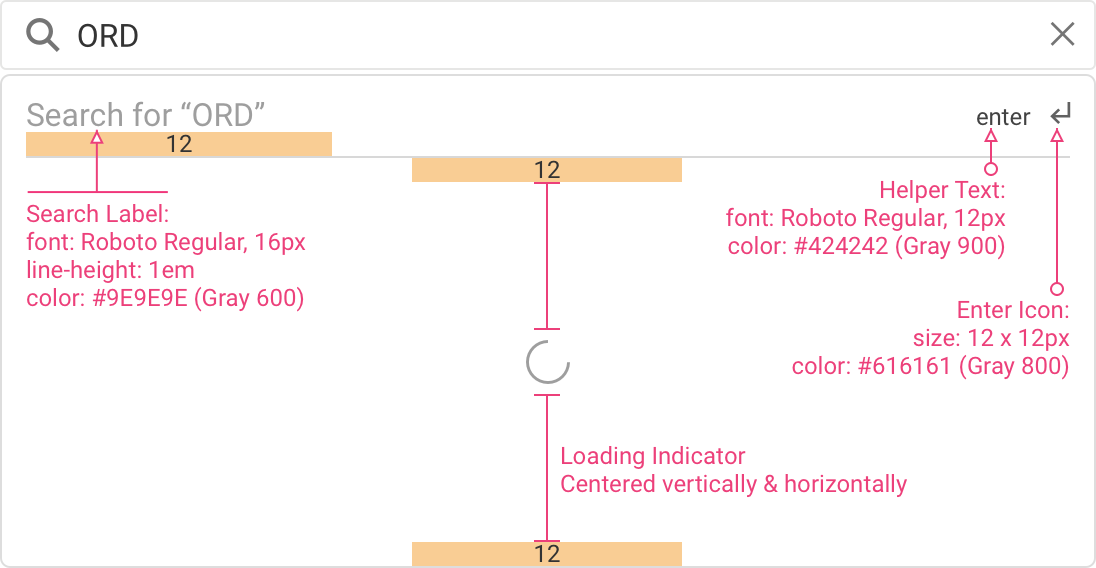
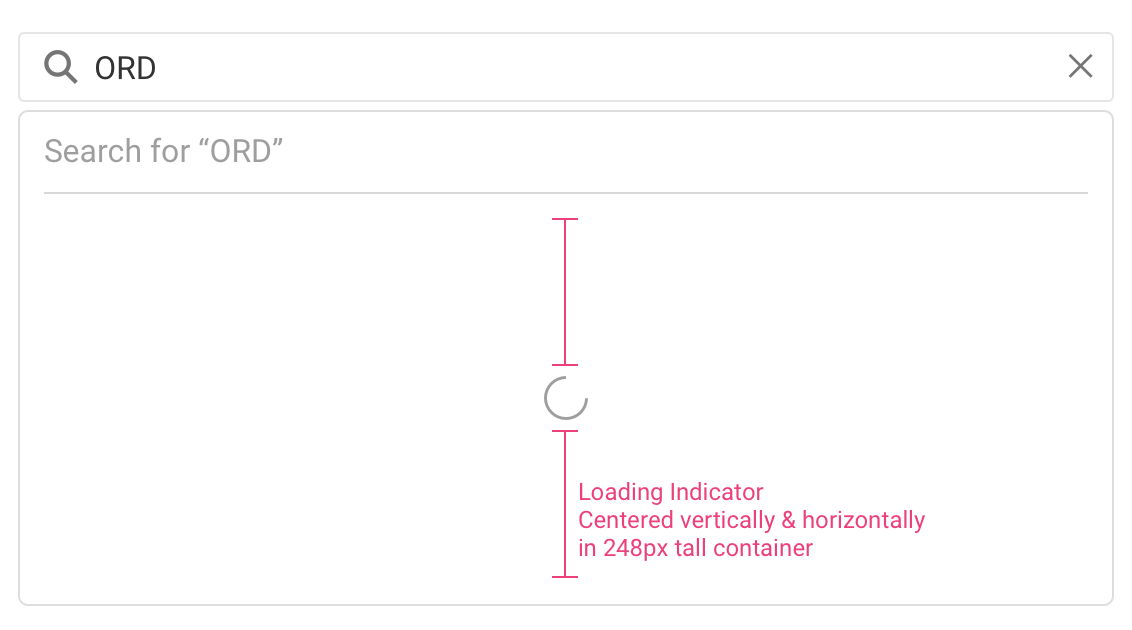
docs(assisted-search): update assisted search docs
Updated images and content for assisted search documentation

Changed region(s): [[0.0, 0.0, 1.0, 1.0], [0.4964, 0.7482, 0.8376, 0.8979], [0.4653, 0.5986, 0.5274, 0.6884]]

diff --git a/_component_design/assisted-search.md b/_component_design/assisted-search.md
@@ -8,7 +8,7 @@ usage: >
 preview-image: preview-images/assisted-search.svg
 resource: true
 status: stable
-last-modified: 2017-11-07
+last-modified: 2018-02-06
 ---
 
 {% include toc.html %}
@@ -21,16 +21,16 @@ last-modified: 2017-11-07
 
 {% column left:"hxCol-4 hxCol-xs-12 hxCol-sm-12 hxCol-md-4 hxCol-lg-4" %}
 
-### Assisted search drop-down
+### Pre-entry state
 
-When the user clicks the search box, show them a list of keywords that they can use to filter their search.
 
+Assistive search is a content container and a set of behaviors given to a search box. The assistive search container does not populate under text is entered, and is indistinguishable from a default search box state.
 
 {% endcolumn %}
 
 {% column right:"hxCol-8 hxCol-xs-12 hxCol-sm-12 hxCol-md-8 hxCol-lg-8" %}
-{% figure [caption:"Meet the assisted search drop-down menu"] [class:"image bg-light border"] %}
-![]({{site.url}}/assets/images/components/search-and-filters/search-assisted/assisted-search-drop-down-menu.png){: width="548px"}
+{% figure [caption:"Meet the assisted search menu"] [class:"image bg-light border"] %}
+![]({{site.url}}/assets/images/components/search-and-filters/search-assisted/assisted-search-pre-entry.png){:width="566px"}
 {% endfigure %}
 {% endcolumn %}
 
@@ -44,24 +44,19 @@ When the user clicks the search box, show them a list of keywords that they can 
 
 {% column left:"hxCol-4 hxCol-xs-12 hxCol-sm-12 hxCol-md-4 hxCol-lg-4" %}
 
-### Layout specifications
+### Active state
 
-Separate groups of keywords using a horizontal divider.
-
-Append the keyword with colon to the search input when the user clicks on a keyword in the menu.
-
+When the search box is clicked and the cursor is active, a designer may choose to prompt the user with recent or suggested searches depending on their context. Recent Searches is just one example of content that can populate an Assistive Search Box. 
 
 {% endcolumn %}
 
 {% column right:"hxCol-8 hxCol-xs-12 hxCol-sm-12 hxCol-md-8 hxCol-lg-8" %}
-{% figure [caption:"Assist search specifications"] [class:"image bg-light border"] %}
-![]({{site.url}}/assets/images/components/search-and-filters/search-assisted/assisted-search-layout-specifications.png){: width="548px"}
+{% figure [caption:"Assisted search specifications"] [class:"image bg-light border"] %}
+![]({{site.url}}/assets/images/components/search-and-filters/search-assisted/assisted-search-active.png){: width="633px"}
 {% endfigure %}
 {% endcolumn %}
 
 </div>
-
-</section>
 
 <section class="static-section" markdown="1">
 
@@ -69,25 +64,21 @@ Append the keyword with colon to the search input when the user clicks on a keyw
 
 {% column left:"hxCol-4 hxCol-xs-12 hxCol-sm-12 hxCol-md-4 hxCol-lg-4" %}
 
-### Search results
+### Post-entry state
 
-Divide search results into categories.
+Follow the Search Box conventions for entered text within the text box. As text is entered in the search box, that text is represented in the Assistive Search Box in the first line: “Search for ‘item’”. The “X” to remove the search item appears as soon as any text is entered.
 
 {% endcolumn %}
 
 {% column right:"hxCol-8 hxCol-xs-12 hxCol-sm-12 hxCol-md-8 hxCol-lg-8" %}
-{% figure [caption:"Assisted search - search results specifications"] [class:"image bg-light border"] %}
-![]({{site.url}}/assets/images/components/search-and-filters/search-assisted/assisted-search-predictive-results-list.png){: width="548px"}
+{% figure [caption:"Assisted search post-entry"] [class:"image bg-light border"] %}
+![]({{site.url}}/assets/images/components/search-and-filters/search-assisted/assisted-search-post-entry.png){: width="633px"}
 {% endfigure %}
 {% endcolumn %}
 
 </div>
 
 </section>
-
-<section class="static-section" markdown="1">
-
-## Assisted search states
 
 <div class="hxRow" markdown="1">
 
@@ -95,22 +86,99 @@ Divide search results into categories.
 
 ### Loading
 
-Use a [loading spinner]({{site.baseurl}}/components/loading-indicators.html) if results take need to be processed prior to display.
+Use a [loading spinner]({{site.baseurl}}/components/loading-indicators.html) if results take need to be processed prior to display. As a default, use a height of 248px.
 
 User should still have instructions for how to search without autocompleted results (Enter).
-
 
 {% endcolumn %}
 
 {% column right:"hxCol-8 hxCol-xs-12 hxCol-sm-12 hxCol-md-8 hxCol-lg-8" %}
 {% figure [caption:"Assist search loading state"] [class:"image bg-light border"] %}
-![]({{site.url}}/assets/images/components/search-and-filters/search-assisted/assisted-search-loading-state.png){: width="548px"}
+![]({{site.url}}/assets/images/components/search-and-filters/search-assisted/assisted-search-loading-state.png){: width="566px"}
 {% endfigure %}
 {% endcolumn %}
 
 </div>
 
 </section>
+
+## Specifications
+
+<section class="static-section" markdown="1">
+
+<div class="hxRow" markdown="1">
+
+{% column left:"hxCol-4 hxCol-xs-12 hxCol-sm-12 hxCol-md-4 hxCol-lg-4" %}
+
+### Layout
+
+Groups of available keywords are separated by a horizontal divider.
+
+Clicking on a keyword in the menu fills the search input with the keyword and colon, so that the user can then enter their search terms.
+
+{% endcolumn %}
+
+{% column right:"hxCol-8 hxCol-xs-12 hxCol-sm-12 hxCol-md-8 hxCol-lg-8" %}
+{% figure [caption:"Assisted search specifications"] [class:"image bg-light border"] %}
+![]({{site.url}}/assets/images/components/search-and-filters/search-assisted/assisted-search-layout-specifications.png){: width="633px"}
+{% endfigure %}
+{% endcolumn %}
+
+</div>
+
+</section>
+
+<section class="static-section" markdown="1">
+
+## Container
+
+<div class="hxRow" markdown="1">
+
+{% column left:"hxCol-4 hxCol-xs-12 hxCol-sm-12 hxCol-md-4 hxCol-lg-4" %}
+
+### Sizing and styling
+
+**Minimums:** The assistive search box should have a minimum height of 88px, enough to contain the Search reminder, the command tip, and one assistive search item. It should have a minimum width of the size of the search box itself.
+
+**Maximums:** It should have a maximum height of 328px so that it does not take over the entire screen. Populate an 8px scroll bar in the right gutter to navigate if options exceed 306px height. If the search box itself is small, the recommended width for an assistive search box is 548px, as shown here to the right.
+
+**Style:** The container uses `gray400` and 5px rounded corners.
+
+{% endcolumn %}
+
+{% column right:"hxCol-8 hxCol-xs-12 hxCol-sm-12 hxCol-md-8 hxCol-lg-8" %}
+{% figure [caption:"Assisted search styling"] [class:"image bg-light border"] %}
+![]({{site.url}}/assets/images/components/search-and-filters/search-assisted/assisted-search-container.png){: width="648px"}
+{% endfigure %}
+{% endcolumn %}
+
+</div>
+
+</section>
+
+<section class="static-section" markdown="1">
+
+<div class="hxRow" markdown="1">
+
+{% column left:"hxCol-4 hxCol-xs-12 hxCol-sm-12 hxCol-md-4 hxCol-lg-4" %}
+
+### Elements
+
+**Elements:** Assistive search boxes consist of an indicator bar, divider line, and assistance at minimum. Category headers and the actual kind of assistive text are to be determined by your product’s needs. You may also include “Additional attributes” to help the user identify the category of the search result.
+
+{% endcolumn %}
+
+{% column right:"hxCol-8 hxCol-xs-12 hxCol-sm-12 hxCol-md-8 hxCol-lg-8" %}
+{% figure [caption:"Assisted search container elements"] [class:"image bg-light border"] %}
+![]({{site.url}}/assets/images/components/search-and-filters/search-assisted/assisted-search-container-elements.png){: width="788px"}
+{% endfigure %}
+{% endcolumn %}
+
+</div>
+
+</section>
+
+<!-- Commented out because search pills were put on hold for this pattern. 2/6/18-EN 
 
 <section class="static-section" markdown="1">
 
@@ -217,3 +285,4 @@ Use backspace to delete a single character and not the entire query or search pi
 </div>
 
 </section>
+-->
